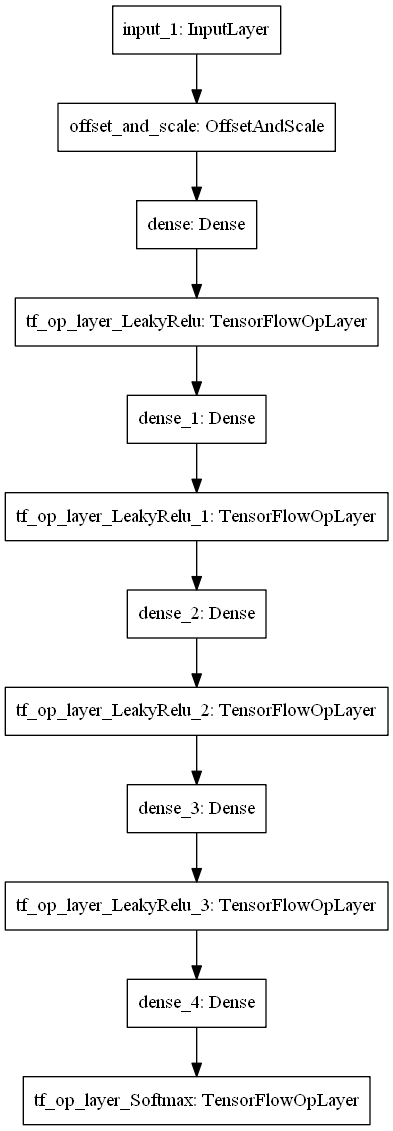
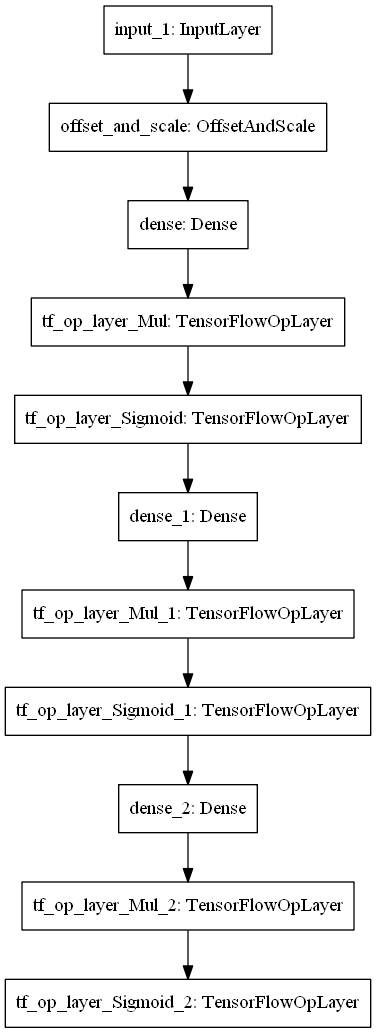
Duplicate original model in tensorflow, created train_new.slr

Changed region(s): [[0.0, 0.0, 0.9947, 1.0], [0.9362, 0.8674, 0.9654, 0.8984], [0.0878, 0.8674, 0.117, 0.8984]]

diff --git a/tensorflow/run_training.py b/tensorflow/run_training.py
@@ -3,12 +3,14 @@ import h5py as h5
 import logging
 import datetime
 from collections import namedtuple
-import matplotlib.pyplot as plt
-from sklearn.model_selection import KFold
-from sklearn.metrics import roc_curve, auc
+import argparse
+#import matplotlib.pyplot as plt
+#from sklearn.model_selection import KFold
+#from sklearn.metrics import roc_curve, auc
 
 import tensorflow as tf
 from tensorflow import keras
+from tensorflow.keras.callbacks import TensorBoard, EarlyStopping, ModelCheckpoint
 from tensorflow.keras.layers import Input, Dense
 from tensorflow.keras.regularizers import l2
 from tensorflow.keras.models import Model
@@ -17,24 +19,47 @@ from tensorflow.keras.initializers import GlorotNormal
 from tensorflow import random_normal_initializer
 
 
-
+def _get_args():
+    args = argparse.ArgumentParser()
+    args.add_argument('--inputData', required=True)
+    args.add_argument('--outputModel', required=True)
+    args.add_argument('--structure', default=[25, 20])
+    args.add_argument('--learning_rate', default=0.08)
+    args.add_argument('--regularizer', default=1e-7)
+    args.add_argument('--batch_size', default=60)
+    args.add_argument('--epochs', default=20)
+    args.add_argument('--momentum', default=0.4)
+    args.add_argument('--patience', default=50)
+    args.add_argument('--hidden_activation', default=_sigmoid2) #tf.keras.activations.sigmoid,
+    args.add_argument('--output_activation', default=_sigmoid2) #tf.keras.activations.sigmoid,
+    return args.parse_args()
 
 def _main():
+    args = _get_args()
+
+    '''
     Option = namedtuple("MyStruct", "data_input model_output structure learning_rate regularizer batch_size epochs \
-                    momentum patience")
+                    momentum patience hidden_activation output_activation")
                     # folds batch_size epochs")
                     #structure learning_rate regularizer epochs")
     args = Option(
-        data_input='data/training.h5',
+        data_input='C:/Users/alexc/Desktop/Projects/pixel-NN-master/data/814_evensplit_equalfrac_train.h5',
         model_output='output/tf_model',
-        structure=[25, 25, 25, 25],
-        learning_rate=0.004,
-        regularizer=1e-6,
+        structure=[25, 20],
+        learning_rate=0.08,
+        regularizer=1e-7,
         batch_size=60,
         epochs=20,
-        #folds=10,
-        momentum=0.2,
-        patience=5,
+        momentum=0.4,
+        patience=50,
+        hidden_activation=_sigmoid2, #tf.keras.activations.sigmoid,
+        output_activation=_sigmoid2 #tf.keras.activations.sigmoid,
+    )
+    '''
+
+    logging.basicConfig(
+        level='INFO',
+        format='[%(asctime)s %(levelname)s] %(message)s'
     )
 
     gpus = tf.config.experimental.list_physical_devices('GPU')
@@ -50,13 +75,13 @@ def _main():
             # Memory growth must be set before GPUs have been initialized
             print(e)
 
-    logging.info(f'Loading data from {args.data_input}')
+    logging.info(f'Loading data from {args.inputData}')
 
-    with h5.File(args.data_input, 'r') as data:
-        data_x = data['input'][()]
-        data_y = data['target'][()]
-        #data_x = data['input'][:5000]
-        #data_y = data['target'][:5000]
+    with h5.File(args.inputData, 'r') as data:
+        #data_x = data['input'][()]
+        #data_y = data['target'][()]
+        data_x = data['input'][:5000]
+        data_y = data['target'][:5000]
 
     std = np.std(data_x, axis=0, ddof=1)
     std[np.where(std == 0)] = 1
@@ -68,18 +93,18 @@ def _main():
 
     for l in range(0, len(args.structure)):
         h = Dense(args.structure[l], kernel_regularizer=l2(args.regularizer), kernel_initializer=init)(h)
-        h = tf.keras.activations.relu(h, alpha=0.1)
+        h = args.hidden_activation(h) #, alpha=0.1) #for leaky relu
         
     output_layer = Dense(data_y.shape[1], kernel_regularizer=l2(args.regularizer), kernel_initializer=init)(h)
-    output_layer = tf.keras.activations.softmax(output_layer)
+    output_layer = args.output_activation(output_layer)
 
     model = tf.keras.models.Model(inputs=inputs, outputs=output_layer)
 
     print(model.summary())
-    keras.utils.plot_model(model)
+    #keras.utils.plot_model(model)
 
     compile_args = {
-        'optimizer': Adam(learning_rate=args.learning_rate, amsgrad=True),
+        'optimizer': SGD(learning_rate=args.learning_rate, momentum=args.momentum),
         'loss': 'categorical_crossentropy'
     }
 
@@ -91,29 +116,30 @@ def _main():
         #'batch_size': args.batch_size,
         'epochs': args.epochs,
         'callbacks': [
-            tf.keras.callbacks.EarlyStopping(monitor='val_loss', patience=args.patience, verbose=1, mode='auto'),
-            tf.keras.callbacks.ModelCheckpoint(args.model_output+'.h5', save_best_only=True, verbose=2),
-            tf.keras.callbacks.TensorBoard(log_dir=log_dir, histogram_freq=1)
+            EarlyStopping(monitor='val_loss', patience=args.patience, verbose=1, mode='auto'),
+            ModelCheckpoint(args.outputModel+'.h5', save_best_only=True, verbose=2),
+            #TensorBoard(log_dir=log_dir, histogram_freq=1)
         ],
         'verbose': 1,
-        #'validation_split': 0.1
+        #'validation_split': 0.1 #not compatible with fit_args when using tensordata
     }
 
     validation_index = int(data_x.shape[0]*0.1)
-    validationDataSet = tf.data.Dataset.from_tensor_slices((data_x[-validation_index:],data_y[-validation_index:])).batch(args.batch_size)
-    trainDataSet = tf.data.Dataset.from_tensor_slices((data_x[:-validation_index], data_y[:-validation_index])).batch(args.batch_size)
+    validationDataSet = tf.data.Dataset.from_tensor_slices((data_x[:validation_index], data_y[:validation_index])).batch(args.batch_size)
+    trainDataSet = tf.data.Dataset.from_tensor_slices((data_x[validation_index:], data_y[validation_index:])).batch(args.batch_size)
+
     history = model.fit(x=trainDataSet, validation_data=validationDataSet, **fit_args)
-    
-    
     #history = model.fit(data_x, data_y, **fit_args)
     
-    hpath = args.model_output + '.history.h5'
+    hpath = args.outputModel + '.history.h5'
     logging.info('Writing fit history to %s', hpath)
     with h5.File(hpath, 'w') as hfile:
         for key, val in history.history.items():
             hfile.create_dataset(key, data=np.array(val))
 
 
+def _sigmoid2(x):
+    return tf.math.sigmoid(2*x)
 
 def _config(layer, config):
     base_config = super(layer.__class__, layer).get_config()
@@ -144,6 +170,9 @@ class OffsetAndScale(keras.layers.Layer):
             'offset': self.offset,
             'scale': self.scale
         })
+
+'''
+#FOR APPLYING MDOEL AND PLOTTING ROCS
 
 def _do_number(data_x, data_y, pred, thrs):
 
@@ -290,6 +319,8 @@ def doRocs(data, name):
     rocGraph(data, (2, 1), name)
     rocGraph(data, (1, 2), name)
     rocGraph(data, (1, 3), name)
+
+'''
 
 if __name__ == "__main__":
     _main()
